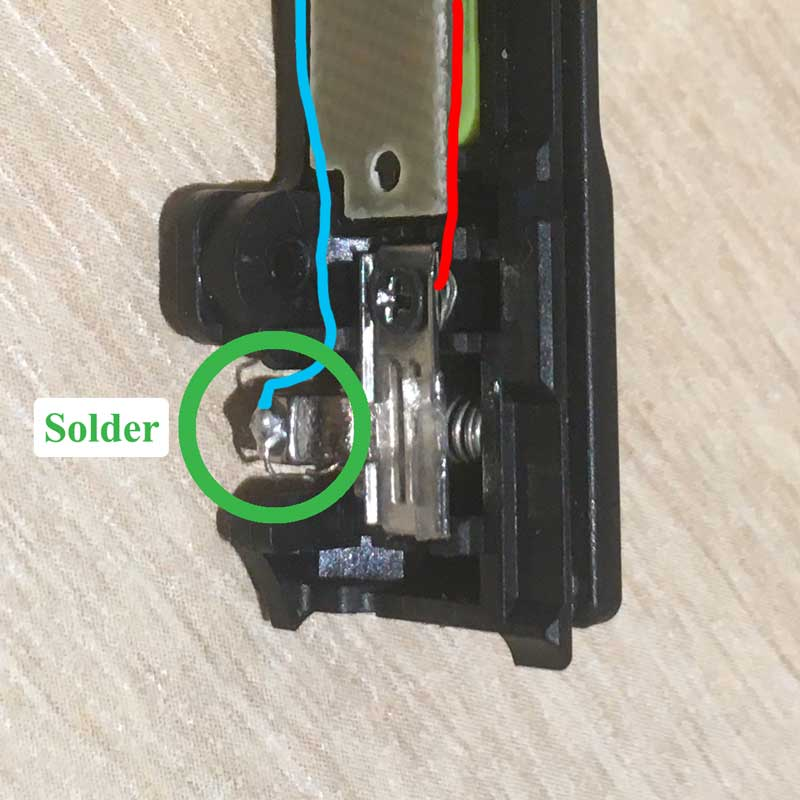
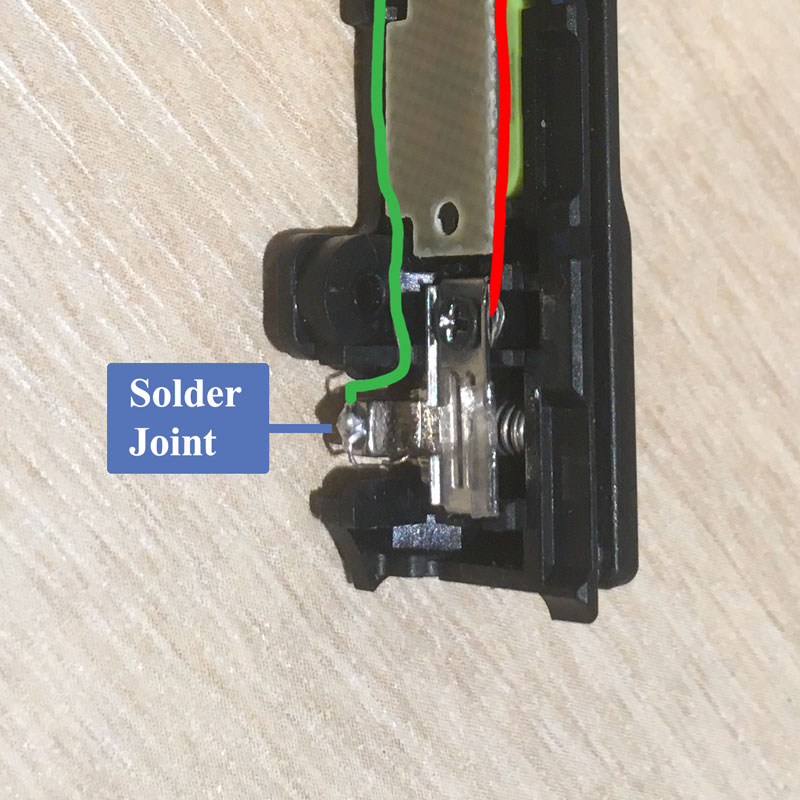
update images

diff --git a/_posts/2022-07-31-Switch-Joycon-RCM.md b/_posts/2022-07-31-Switch-Joycon-RCM.md
@@ -29,7 +29,7 @@ Once the rail is removed, the pin breakouts can be seen on the bottom of the rai
 
 <img src="/images/posts/joycon-pins.jpg" alt="Joycon pins" width="600"/>
 
-Two wires are soldered to the back sides of pins 7 and 10 and run along the rail's board. As the internals of the joycon case are tightly-fit, sheathed wires are difficult to find spare for. Therefore, a stranded wire is stripped and two strands used -- be careful that the paths used for these wires do not connect to other metal areas and create shorts. The wires can be seen in the picture of the completed installation below and are highlighted in the adjacent picture. Note the extra slack in the right (blue) wire to allow for the travel of the button.
+Two wires are soldered to the back sides of pins 7 and 10 and run along the rail's board. As the internals of the joycon case are tightly-fit, sheathed wires are difficult to find spare for. Therefore, a stranded wire is stripped and two strands used -- be careful that the paths used for these wires do not connect to other metal areas and create shorts. The wires can be seen in the picture of the completed installation below and are highlighted in the adjacent picture. Note the extra slack in the right (green) wire to allow for the travel of the button.
 
 <table><tr>
   <td>
